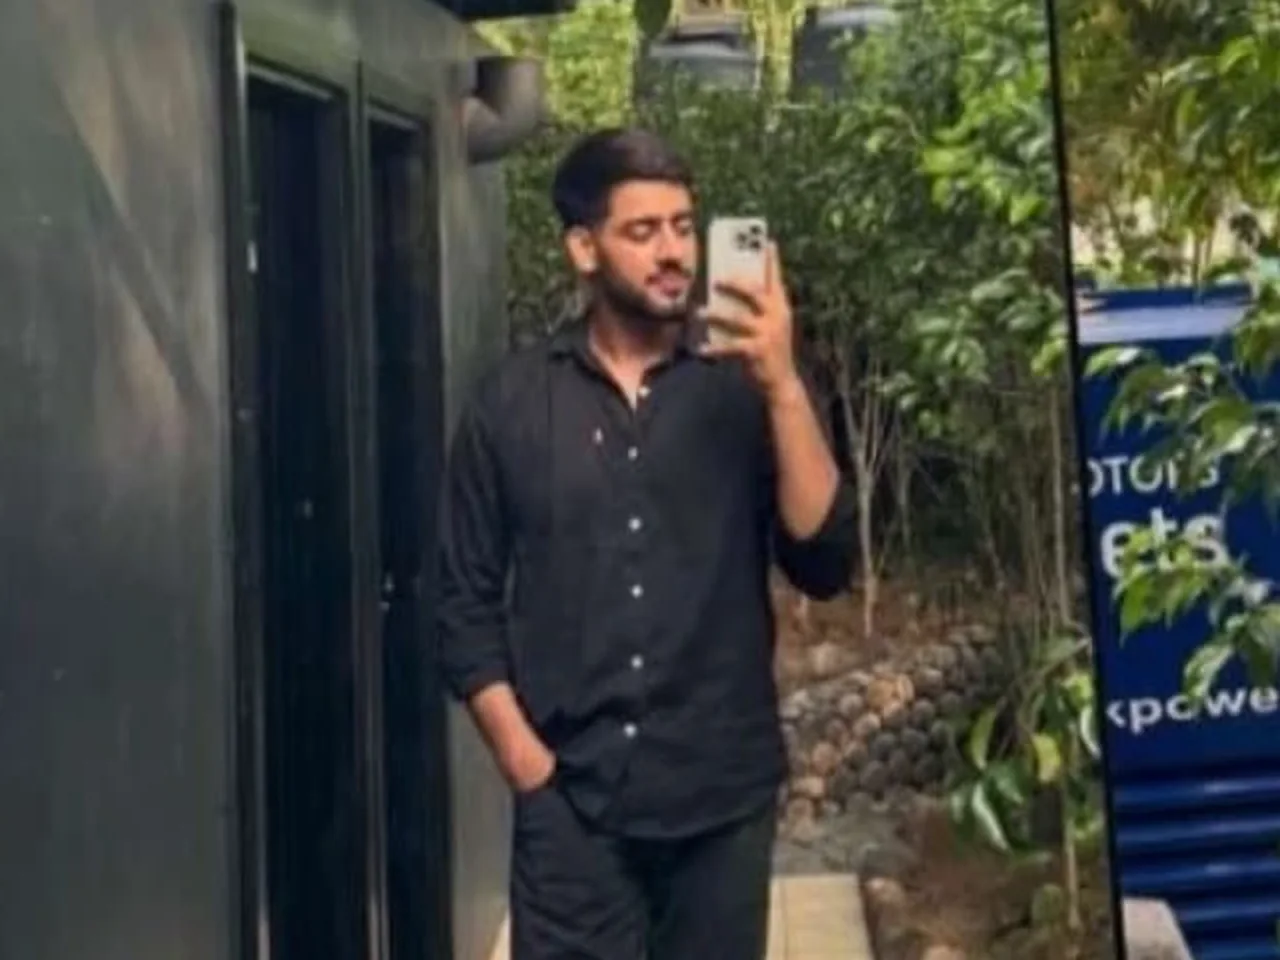
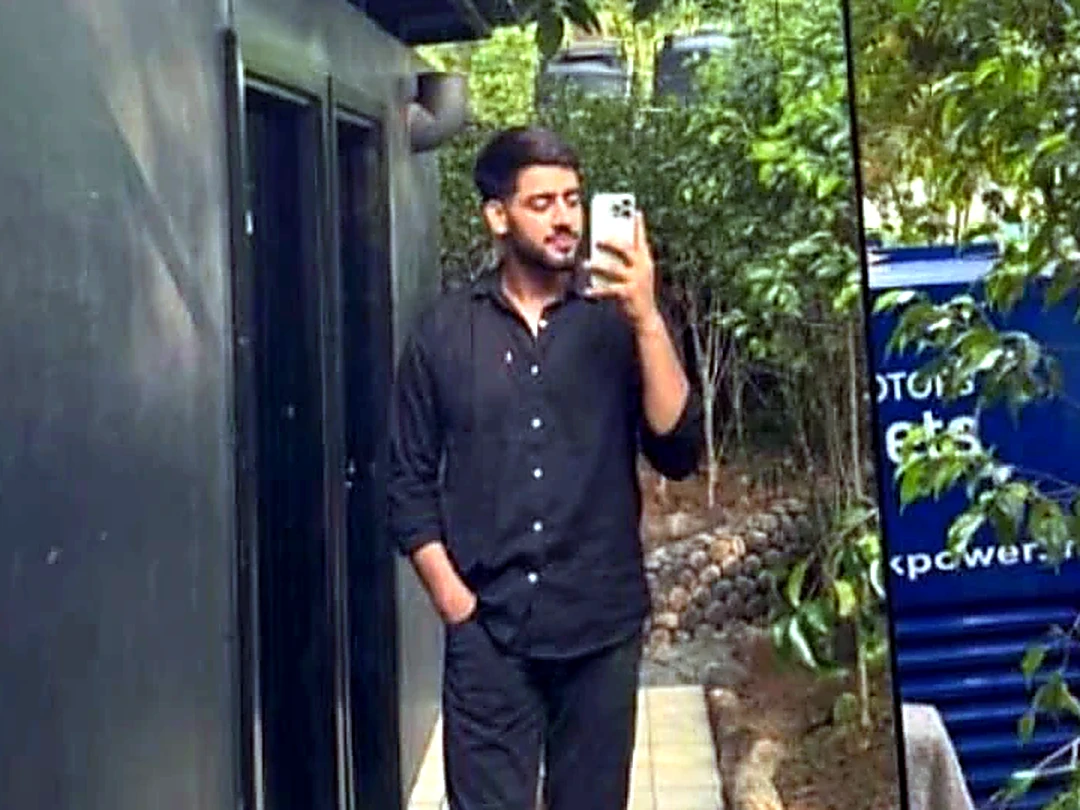
D-260: replies to your comment notify you; sharper Atif photo
- 0078 (live): a reply notifies the writer of the comment it answers
  (comment_reply), never the replier, never the note author twice, never
  across a block. Note authors still get every comment (post_comment).
- Panel groups replies per note; push-notify v9 says "X replied to your comment".
- Atif-Mir.webp re-cut near native size with an unsharp mask and light contrast.

Claude-Session: https://claude.ai/code/session_015byVS3utfpuQCQhmJcGRWZ

diff --git a/site/scripts/app.js b/site/scripts/app.js
@@ -774,7 +774,7 @@ const renderNotifications = () => {
   // "THE BRIVIA CLUB" -> "The Brivia Club" (an all-caps account name reads as shouting in a sentence).
   const titleCaseName = (name) => { const n = String(name || '').trim(); return n && n === n.toUpperCase() ? n.toLowerCase().replace(/(^|\s)(\S)/g, (m, a, b) => a + b.toUpperCase()) : n; };
   const boldLead = (title, first) => (first && title.startsWith(first) ? `<b>${escapeHtml(first)}</b>${escapeHtml(title.slice(first.length))}` : escapeHtml(title));
-  const postKind = (type) => (type === 'post_like' ? ['like', heartIcon] : type === 'post_new' ? ['new', newNoteIcon] : ['comment', commentIcon]);
+  const postKind = (type) => (type === 'post_like' ? ['like', heartIcon] : type === 'post_new' ? ['new', newNoteIcon] : ['comment', commentIcon]);   // comment_reply (D-260) wears the comment badge
   const postHtml = postGroups.map((g) => {
     // D-253: an Admin (THE BRIVIA CLUB) is named in full, never by a first word ("THE shared a new note").
     const lead = g.people[0] || {};
@@ -784,12 +784,12 @@ const renderNotifications = () => {
     const thumb = g.postImage && isStorageImageUrl(g.postImage) ? `<img src="${escapeHtml(g.postImage)}" alt="" loading="lazy" decoding="async" />` : '';
     // D-243: likes show who (up to three faces) and open "Liked by".
     const isLike = g.type === 'post_like';
-    const extra = isLike || g.type === 'post_comment' ? g.people.slice(1, 3).map((p) => renderAvatar(findPersonById(p.id) || { name: p.name, image: p.photoUrl }, 'notification-avatar notification-avatar--stack')).join('') : '';
+    const extra = isLike || g.type === 'post_comment' || g.type === 'comment_reply' ? g.people.slice(1, 3).map((p) => renderAvatar(findPersonById(p.id) || { name: p.name, image: p.photoUrl }, 'notification-avatar notification-avatar--stack')).join('') : '';
     const line = isLike ? (g.people.length > 1 ? `See all ${g.people.length}` : 'See who') : copy.line;
     return `<button type="button" class="notification-post${g.unread ? ' is-unread' : ''}${extra ? ' has-stack' : ''}" data-post-note="${escapeHtml(g.key)}" aria-label="${escapeHtml(`${copy.title}. ${line}`.trim())}">`
       + `<span class="notification-nearby-face">${renderAvatar(person, 'notification-avatar')}${extra}<i class="notification-post-kind is-${postKind(g.type)[0]}">${postKind(g.type)[1]}</i></span>`
       // D-252: the name in bold, the comment or caption in a soft bubble (no quote marks), the time last.
-      + `<span class="notification-nearby-copy"><strong>${boldLead(copy.title, adminLead ? titleCaseName(lead.name) : firstNameOf(lead.name))}</strong>${line ? `<span class="${isLike ? 'notification-see-likers' : (g.type === 'post_comment' || g.type === 'post_new') && g.snippet ? 'notification-snippet' : 'notification-line'}"><span>${escapeHtml(line)}</span></span>` : ''}<small>${escapeHtml(agoLabel(g.createdAt))}</small></span>`
+      + `<span class="notification-nearby-copy"><strong>${boldLead(copy.title, adminLead ? titleCaseName(lead.name) : firstNameOf(lead.name))}</strong>${line ? `<span class="${isLike ? 'notification-see-likers' : (g.type === 'post_comment' || g.type === 'post_new' || g.type === 'comment_reply') && g.snippet ? 'notification-snippet' : 'notification-line'}"><span>${escapeHtml(line)}</span></span>` : ''}<small>${escapeHtml(agoLabel(g.createdAt))}</small></span>`
       + `${thumb ? `<span class="notification-post-thumb">${thumb}</span>` : ''}</button>`;
   }).join('');
   const ticketIcon = '<svg viewBox="0 0 16 16" aria-hidden="true"><path d="M2.5 5.5V4h11v1.5a1.5 1.5 0 0 0 0 3V10h-11V8.5a1.5 1.5 0 0 0 0-3Z"/><path d="M9.5 4v6" stroke-dasharray="1.2 1.2"/></svg>';

diff --git a/site/scripts/member-notifications.js b/site/scripts/member-notifications.js
@@ -108,7 +108,7 @@ export const createMemberNotifications = ({ api, subscribe, onNew = () => {}, on
 // D-151 (0043): likes and comments on my notes, grouped per note and kind, newest first.
 // [{ key, type, postId, postImage, people: [{ id, name, photoUrl }], snippet, createdAt, unread, ids }]
 // D-234 (0071): post_new, a connection shared a new note (one row per note).
-export const POST_TYPES = new Set(['post_like', 'post_comment', 'post_new']);
+export const POST_TYPES = new Set(['post_like', 'post_comment', 'post_new', 'comment_reply']);   // D-260: comment_reply (0078)
 export const groupPostNotifications = (list = [], now = Date.now(), days = 7) => {
   const groups = new Map();
   for (const n of list) {
@@ -116,7 +116,7 @@ export const groupPostNotifications = (list = [], now = Date.now(), days = 7) =>
     if (n.createdAt && now - new Date(n.createdAt).getTime() > days * 86400000) continue;
     // Likes on one note are one row; D-253 (founder: "just show recent comment and say xyz and pqr others commented"):
     // comments on one note are one row too, showing the newest comment, its writer first.
-    const key = n.type === 'post_comment' ? `c:${n.postId}` : n.type === 'post_new' ? `n:${n.postId}` : `l:${n.postId}`;
+    const key = n.type === 'post_comment' ? `c:${n.postId}` : n.type === 'comment_reply' ? `r:${n.postId}` : n.type === 'post_new' ? `n:${n.postId}` : `l:${n.postId}`;
     const g = groups.get(key) || { key, type: n.type, postId: n.postId, postImage: n.postImage, people: [], snippet: n.snippet, createdAt: n.createdAt, unread: false, ids: [] };
     const newest = !g.ids.length || String(n.createdAt) > String(g.createdAt);
     const person = { id: n.sourceId, name: n.name, photoUrl: n.photoUrl };
@@ -124,7 +124,7 @@ export const groupPostNotifications = (list = [], now = Date.now(), days = 7) =>
     if (newest) {
       if (at >= 0) g.people.splice(at, 1);
       g.people.unshift(person);
-      if (n.type === 'post_comment') { g.snippet = n.snippet; g.commentId = n.commentId || null; }
+      if (n.type === 'post_comment' || n.type === 'comment_reply') { g.snippet = n.snippet; g.commentId = n.commentId || null; }
     } else if (at < 0) g.people.push(person);
     if (String(n.createdAt) > String(g.createdAt)) g.createdAt = n.createdAt;
     g.unread ||= !n.readAt;
@@ -141,6 +141,11 @@ const firstName = (name) => String(name || '').trim().split(/\s+/)[0] || 'A memb
 export const postNotificationCopy = (g, { full = false } = {}) => {
   const people = g?.people || [];
   const lead = full && String(people[0]?.name || '').trim() ? String(people[0].name).trim() : firstName(people[0]?.name);
+  if (g?.type === 'comment_reply') {
+    // D-260: "Amar replied to your comment" · "Amar and 2 others replied to your comment", with the newest reply.
+    const writers = people.length <= 1 ? lead : people.length === 2 ? `${lead} and ${firstName(people[1]?.name)}` : `${lead} and ${people.length - 1} others`;
+    return { title: `${writers} replied to your comment`, line: g.snippet || '' };
+  }
   if (g?.type === 'post_comment') {
     // D-253: "Amar commented" · "Amar and Diya commented" · "Amar and 3 others commented", with the newest comment.
     const writers = people.length <= 1 ? lead : people.length === 2 ? `${lead} and ${firstName(people[1]?.name)}` : `${lead} and ${people.length - 1} others`;

diff --git a/supabase/functions/push-notify/index.ts b/supabase/functions/push-notify/index.ts
@@ -117,7 +117,7 @@ Deno.serve(async (req) => {
   for (const n of claimed) {
     const who = nameOf.get(n.source_user_id) || { name: 'A Brivia member', photo_url: null };
     const first = String(who.name || '').trim().split(/\s+/)[0] || 'A Brivia member';
-    const post = n.notification_type === 'post_like' || n.notification_type === 'post_comment' || n.notification_type === 'post_new';
+    const post = n.notification_type === 'post_like' || n.notification_type === 'post_comment' || n.notification_type === 'post_new' || n.notification_type === 'comment_reply';
     // D-203 (0060): someone registered for the member's event.
     const registered = n.notification_type === 'event_registered';
     const payload = JSON.stringify(registered ? {
@@ -128,8 +128,9 @@ Deno.serve(async (req) => {
     } : post ? {
       id: n.id, tag: n.id, type: n.notification_type,
       // D-234 (0071): post_new, a connection shared a new note.
-      title: n.notification_type === 'post_like' ? `${first} liked your note` : n.notification_type === 'post_new' ? `${first} shared a new note` : `${first} commented on your note`,
-      body: (n.notification_type === 'post_comment' || n.notification_type === 'post_new') && n.snippet ? `“${n.snippet}”` : 'Open Brivia to see it.',
+      // D-260 (0078): comment_reply, someone answered the member's comment.
+      title: n.notification_type === 'post_like' ? `${first} liked your note` : n.notification_type === 'post_new' ? `${first} shared a new note` : n.notification_type === 'comment_reply' ? `${first} replied to your comment` : `${first} commented on your note`,
+      body: (n.notification_type === 'post_comment' || n.notification_type === 'post_new' || n.notification_type === 'comment_reply') && n.snippet ? `“${n.snippet}”` : 'Open Brivia to see it.',
       url: `/app.html?view=posts&post=${n.post_id}&notification=${n.id}`,
     } : {
       id: n.id, tag: n.id, type: n.notification_type,

diff --git a/docs/DECISIONS.md b/docs/DECISIONS.md
@@ -4782,3 +4782,17 @@ bring a short line back.
   moves at the same pace (about 3.4 s a card).
 - **Checks.** unit showcase-cards (20 cards, two identical halves, 34 s); asset budget OK; the card renders with its
   photo at 1440 and 390.
+
+## D-260 (2026-11-14): replies to your comment notify you; a clearer photo of Atif
+
+- **Ask (founder, 2026-11-14):** "make the photo very clean, clear and also allow notifications for if the person
+  comments on our post we must get notified".
+- **Found.** A comment on a member's own note already notified them (post_comment, 0043; live, every non-self comment
+  had a notification and push). The gap: a reply to *your comment* on someone else's note told only the note's author.
+- **Decision (0078).** A reply also notifies the writer of the comment it answers (`comment_reply`): never the replier,
+  never twice (the note's author keeps `post_comment` only), never across a block or world. The panel groups replies
+  per note ("Asha and 2 others replied to your comment", newest reply shown); push-notify v9 says "{name} replied to
+  your comment". The comment bell for note authors is unchanged.
+- **Photo.** Atif's card is re-cut from the original at near-native size (720 x 540 to 1080 x 810, not a 2x upscale),
+  with an unsharp mask and a light contrast / colour lift; the source is a phone screenshot, so this is its ceiling.
+- **Checks.** SQL zr-comment-replies (R1 to R5); unit 617; build.

diff --git a/supabase/migrations/README.md b/supabase/migrations/README.md
@@ -1569,3 +1569,11 @@ Verify: `select has_table_privilege('authenticated', 'public.member_badge', 'ins
 author's world (no block either way); anyone else's note still notifies only their connections. Verify: post a note as
 an admin and `select count(*) from public.member_notification where post_id = '<id>';` (every other account). Applied
 live 2026-11-13.
+
+## 0078
+
+**Comment replies notify (D-260).** Apply after `0077`, then deploy `push-notify` (v9) and the client. Adds
+`comment_reply` to the notification types and re-creates `brivia_private.brivia_notify_post_comment()`: the note's
+author is told as before; the writer of the comment being answered is told too (not the replier, not the note's author
+twice, not across a block). Verify: `select pg_get_constraintdef(oid) from pg_constraint where conname =
+'member_notification_notification_type_check';` lists `comment_reply`. Applied live 2026-11-14.

diff --git a/docs/HANDOFF.md b/docs/HANDOFF.md
@@ -7,6 +7,8 @@ Update this file at the end of every session. CLAUDE.md holds the aim; this file
 
 ## 1. What is done
 
+**2026-11-14, D-260:** replies to your comment notify you (0078 live, push-notify v9); Atif's photo re-cut sharper.
+
 **2026-11-14, D-259:** Atif Mir (cricketer, looking for sponsors) added to the sign-up page's people strip.
 
 **2026-11-14, D-258:** an open chat reads only its own conversation (newest 300), after the D-257 outage.
